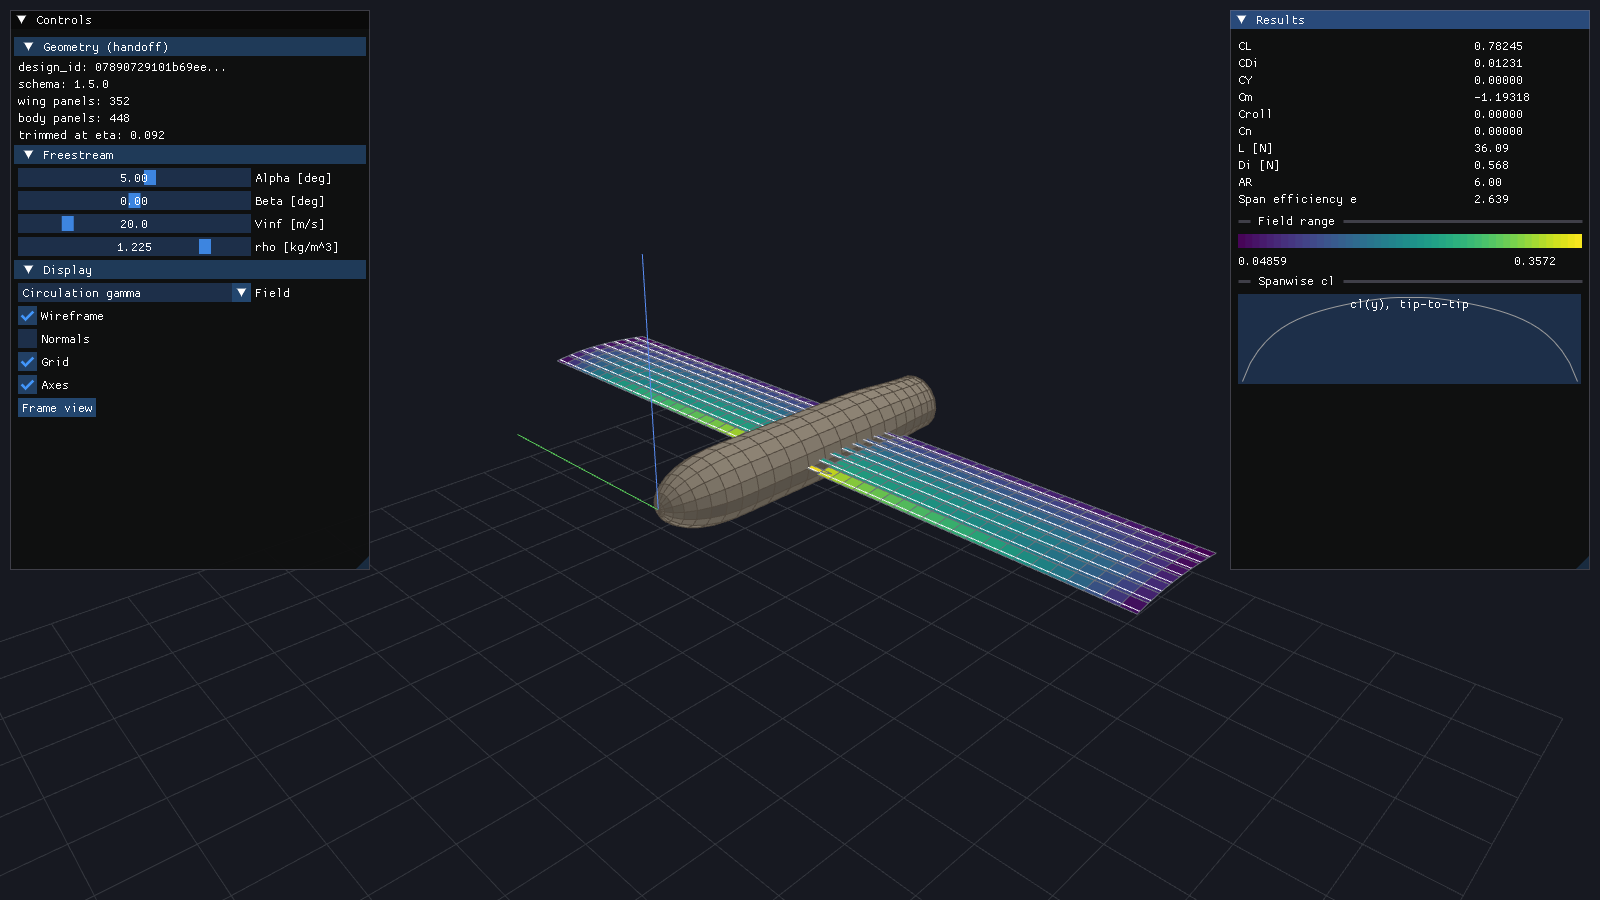
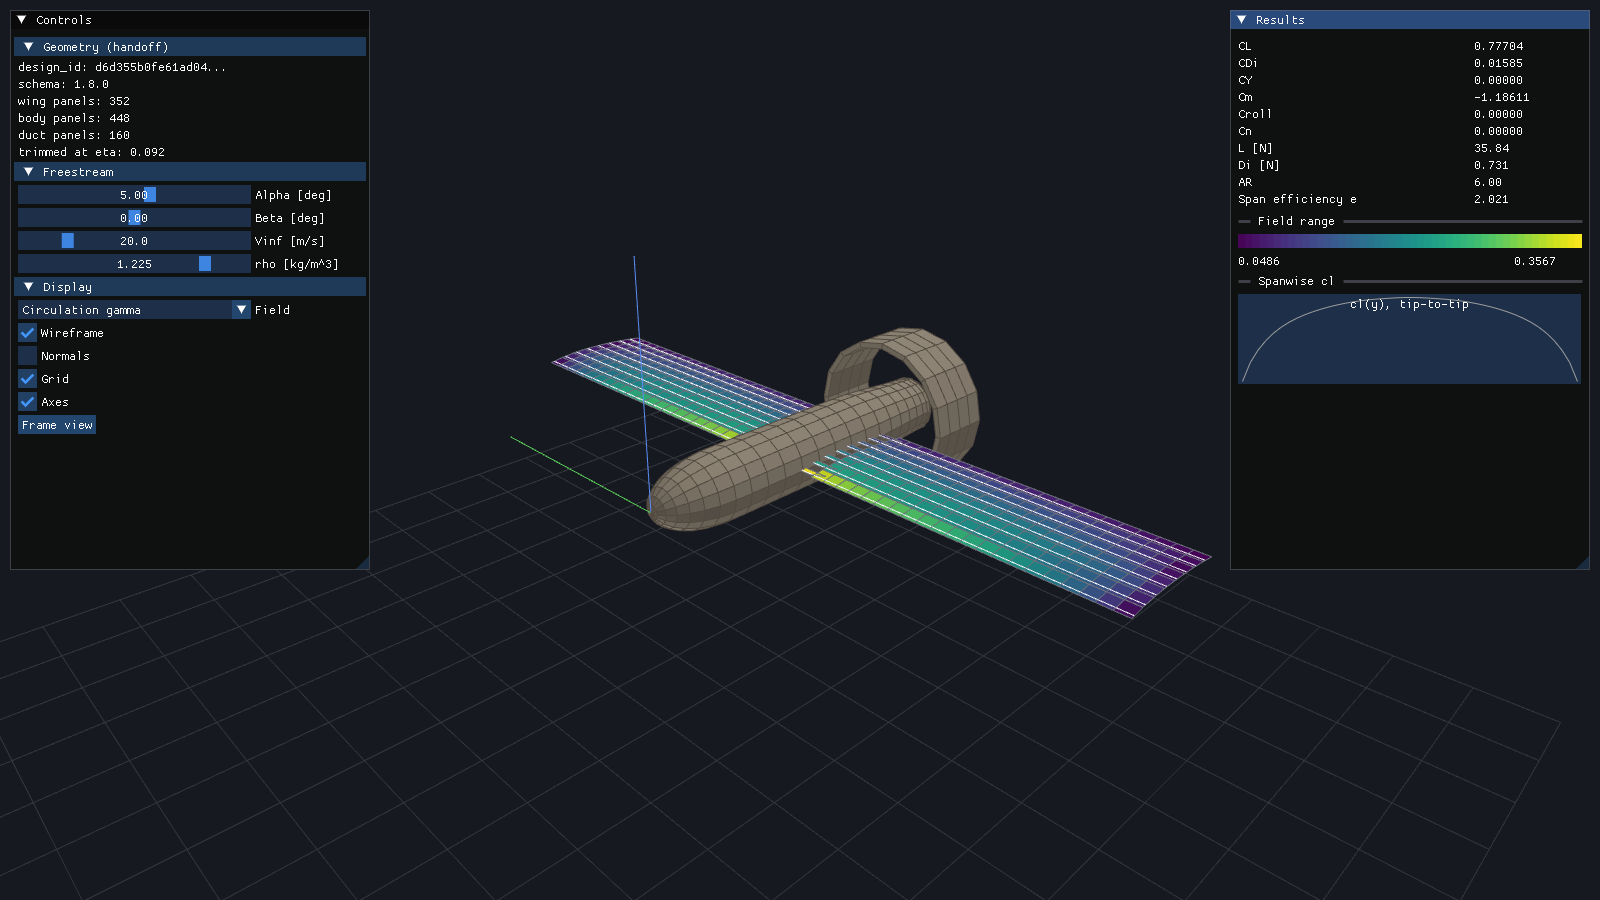
Wire the duct into the viewer's solve and rendering, refresh the airframe screenshot
BuildDuct() was only reachable from PanelBuilder directly; the viewer still
solved and rendered wing + fuselage only. Application now builds the duct's
source panels alongside the fuselage's, folds both into one PanelSystem for
the coupled potential-flow solve, and renders them together.

Regenerated doc/_static/viewer_airframe.png from the 1.8.0 fixture (which
carries a duct) and updated the README/theory.rst captions and layout
descriptions to match: 352 wing + 448 fuselage + 160 duct panels, one
coupled solve.

diff --git a/viewer/src/Core/Application.cpp b/viewer/src/Core/Application.cpp
@@ -102,21 +102,25 @@ void Application::LoadHandoff(const std::string& geometryPath) {
     PanelBuilder::LatticeBuilder builder(m_Contract);
     m_Panels = builder.Build();
     m_BodyPanels = builder.BuildBody();
+    m_DuctPanels = builder.BuildDuct();
+    m_SourcePanels = m_BodyPanels;
+    m_SourcePanels.insert(m_SourcePanels.end(), m_DuctPanels.begin(), m_DuctPanels.end());
     m_ReferenceArea = builder.GrossPlanformArea();
     m_ReferenceSpan = m_Contract.Span;
     m_TrimEta = builder.TrimEta();
     m_UseHandoff = true;
 
-    // Bounding sphere of the whole airframe (wing + body), for framing --
-    // the wing's own span alone would leave the fuselage's nose/tail cut off
-    // whenever the wing is placed near one end of the body.
+    // Bounding sphere of the whole airframe (wing + fuselage + duct), for
+    // framing -- the wing's own span alone would leave the fuselage's
+    // nose/tail (or a duct sitting aft of it) cut off whenever the wing is
+    // placed near one end of the body.
     Solver::Vec3 lo(1e30, 1e30, 1e30), hi(-1e30, -1e30, -1e30);
     auto accumulate = [&](const Solver::Vec3& p) {
         lo = Solver::Vec3(std::min(lo.x, p.x), std::min(lo.y, p.y), std::min(lo.z, p.z));
         hi = Solver::Vec3(std::max(hi.x, p.x), std::max(hi.y, p.y), std::max(hi.z, p.z));
     };
     for (const auto& panel : m_Panels) { accumulate(panel.A); accumulate(panel.B); }
-    for (const auto& panel : m_BodyPanels)
+    for (const auto& panel : m_SourcePanels)
         for (const auto& corner : panel.Corners) accumulate(corner);
 
     m_SceneCenter = (lo + hi) * 0.5;
@@ -150,7 +154,7 @@ void Application::Resolve() {
         ref.Chord = m_ReferenceArea / m_ReferenceSpan;
         trail = Solver::DefaultTrailSpanFactor * m_ReferenceSpan;
 
-        const Solver::PanelSystem system{m_Panels, m_BodyPanels};
+        const Solver::PanelSystem system{m_Panels, m_SourcePanels};
         const Solver::PreparedSystem prepared = Solver::Prepare(system, trail);
         m_Result = Solver::SolveWithSystem(prepared, m_Freestream, ref);
     } else {
@@ -208,6 +212,7 @@ void Application::DrawUI() {
             ImGui::Text("schema: %s", m_Contract.SchemaVersion.c_str());
             ImGui::Text("wing panels: %zu", m_Panels.size());
             ImGui::Text("body panels: %zu", m_BodyPanels.size());
+            ImGui::Text("duct panels: %zu", m_DuctPanels.size());
             ImGui::Text("trimmed at eta: %.3f", m_TrimEta);
         }
     } else if (ImGui::CollapsingHeader("Planform", ImGuiTreeNodeFlags_DefaultOpen)) {
@@ -334,7 +339,7 @@ void Application::Run(int maxFrames) {
         }
         if (m_DisplayDirty) {
             double span = m_UseHandoff ? m_SceneRadius : m_Wing.Span;
-            m_Lattice.Update(m_Panels, m_Result, m_Display, span, m_BodyPanels);
+            m_Lattice.Update(m_Panels, m_Result, m_Display, span, m_SourcePanels);
             m_DisplayDirty = false;
         }
 

diff --git a/viewer/include/Core/Application.h b/viewer/include/Core/Application.h
@@ -59,6 +59,13 @@ private:
     bool m_UseHandoff = false;
     Geometry::HandoffContract m_Contract;
     std::vector<Lattice::SourcePanel> m_BodyPanels;
+    std::vector<Lattice::SourcePanel> m_DuctPanels;
+    // Fuselage + duct combined: what the solve and the renderer actually
+    // consume. Cached once alongside m_BodyPanels/m_DuctPanels (kept
+    // separate for the per-surface panel-count readout in DrawUI()) rather
+    // than reassembled every Resolve(), same as the rest of handoff mode's
+    // "build once, only the freestream re-solves per frame" caching.
+    std::vector<Lattice::SourcePanel> m_SourcePanels;
     double m_ReferenceArea = 0.0;
     double m_ReferenceSpan = 0.0;
     double m_TrimEta = 0.0;

diff --git a/README.md b/README.md
@@ -8,11 +8,12 @@ viewer visualizes the lattice and the live solve. Built incrementally and
 validated against closed-form theory at each stage rather than assumed
 correct — see "Validation" below.
 
-![aeolion_viewer rendering the wing + fuselage lattice for a real geometry handoff, colored by circulation, with the solved coefficients shown live](doc/_static/viewer_airframe.png)
+![aeolion_viewer rendering the wing + fuselage + duct lattice for a real geometry handoff, colored by circulation, with the solved coefficients shown live](doc/_static/viewer_airframe.png)
 
-*`aeolion_viewer` rendering the coupled wing + fuselage lattice built by
-`PanelBuilder::LatticeBuilder` from a real geometry handoff (352 wing
-panels colored by circulation `gamma`, 448 fuselage source panels). See
+*`aeolion_viewer` rendering the coupled wing + fuselage + duct lattice built
+by `PanelBuilder::LatticeBuilder` from a real geometry handoff (352 wing
+panels colored by circulation `gamma`, 448 fuselage source panels, 160 duct
+source panels -- all one coupled potential-flow solve). See
 [doc/theory.rst](doc/theory.rst) for the math and
 [doc/_static/viewer_airframe.png](doc/_static/viewer_airframe.png) full-size.*
 
@@ -40,9 +41,10 @@ panelbuilder/                    aeolion_panelbuilder (STATIC library)
                                  the one component with compiled sources
                                                     (Aeolion::PanelBuilder)
   include/Aeolion/PanelBuilder/
-    PanelBuilder.h     LatticeBuilder: builds the solver's wing lattice AND
-                        the fuselage's source-panel mesh from a parsed
-                        handoff -- CST camber surface, spanwise + chordwise
+    PanelBuilder.h     LatticeBuilder: builds the solver's wing lattice, the
+                        fuselage's source-panel mesh, AND the (disjoint)
+                        duct's source-panel mesh from a parsed handoff --
+                        CST camber surface, spanwise + chordwise
                         discretization, deflected control surfaces,
                         wing/body trim + carry-through, breakpoints on
                         every surface edge
@@ -88,8 +90,10 @@ include/Aeolion/     header-only library (the rest of the toolkit)
     ControlSurface.h     hinged surface + which body it binds to
     MeshTopology.h       requested lattice discretization
     PropulsionSpec.h     propeller blade geometry for a BEMT run
-    BodyGeometry.h       fuselage/duct body of revolution (axial x radius
+    BodyGeometry.h       fuselage body of revolution (axial x radius
                           stations)
+    DuctGeometry.h        the duct: a single annular ring (chord, inner/outer
+                           diameter, center), disjoint from the fuselage
     WingPlacement.h       where the wing sits relative to the body
   DragEstimate/                                   (Aeolion::DragEstimate)
     DragEstimate.h     viscous CD0: flat-plate skin friction + form factor
@@ -113,13 +117,15 @@ tests/                 regression suite, wired into ctest
                                  field, on-sheet jump, source-panelled sphere
   TestBodyPanels.cpp            fuselage panelling: closure, d'Alembert,
                                  Munk moment, frame convention
+  TestDuctPanels.cpp            duct panelling: closure, enclosed annulus
+                                 volume, d'Alembert, frame convention
   TestHandoffContract.cpp       JSON handoff parsing, contract invariants,
                                  surface binding, trapezoid reduction
   TestPanelBuilder.cpp          camber lifts at zero incidence, chordwise
                                  rows, control deflection, mesh lands on
                                  control surface edges
   TestAirframe.cpp              the whole chain coupled: real handoff ->
-                                 wing + fuselage lattice -> solve
+                                 wing + fuselage + duct lattice -> solve
 
 cmake/                build modules (CompilerWarnings, LapackBackend) + vcpkg triplets
 

diff --git a/doc/theory.rst b/doc/theory.rst
@@ -7,15 +7,20 @@ compose into a single wing-body-propeller solve. Notation follows the
 ``Vinf``, ``gamma``, ``rho``, ``Vec3.x/y/z``).
 
 .. figure:: _static/viewer_airframe.png
-   :alt: aeolion_viewer rendering of the wing and fuselage lattice for a real geometry handoff
+   :alt: aeolion_viewer rendering of the wing, fuselage, and duct lattice for a real geometry handoff
    :width: 100%
 
-   ``aeolion_viewer`` rendering the coupled wing + fuselage lattice built by
-   ``PanelBuilder::LatticeBuilder`` from the real 1.5.0 geometry handoff
-   fixture (``tests/Data/AeolionGeometryHandoff-1.5.0.json``): 352 wing
-   panels (colored by circulation :math:`\gamma`) and 448 fuselage source
-   panels (tan), solved at :math:`\alpha=5^\circ`. The wing root leading
-   edge is placed at the contract's stated anchor
+   ``aeolion_viewer`` rendering the coupled wing + fuselage + duct lattice
+   built by ``PanelBuilder::LatticeBuilder`` from the real 1.8.0 geometry
+   handoff fixture (``tests/Data/AeolionGeometryHandoff-1.8.0.json``): 352
+   wing panels (colored by circulation :math:`\gamma`), 448 fuselage source
+   panels (tan), and 160 duct source panels (tan, the ring aft of the
+   fuselage) -- all one coupled potential-flow solve, at
+   :math:`\alpha=5^\circ`. The duct is disjoint from the fuselage
+   (``Geometry::DuctGeometry``, schema >= 1.8.0), paneled as two concentric
+   cylinders capped front and back (``LatticeBuilder::BuildDuct()``), bore
+   left open for the propeller/slipstream. The wing root leading edge is
+   placed at the contract's stated anchor
    (``planform.placement.root_leading_edge``, schema >= 1.5.0), about 42%
    aft of the nose; the body's local radius there still trims
    :math:`\eta=0.092` of the wing root, restored by the carry-through
